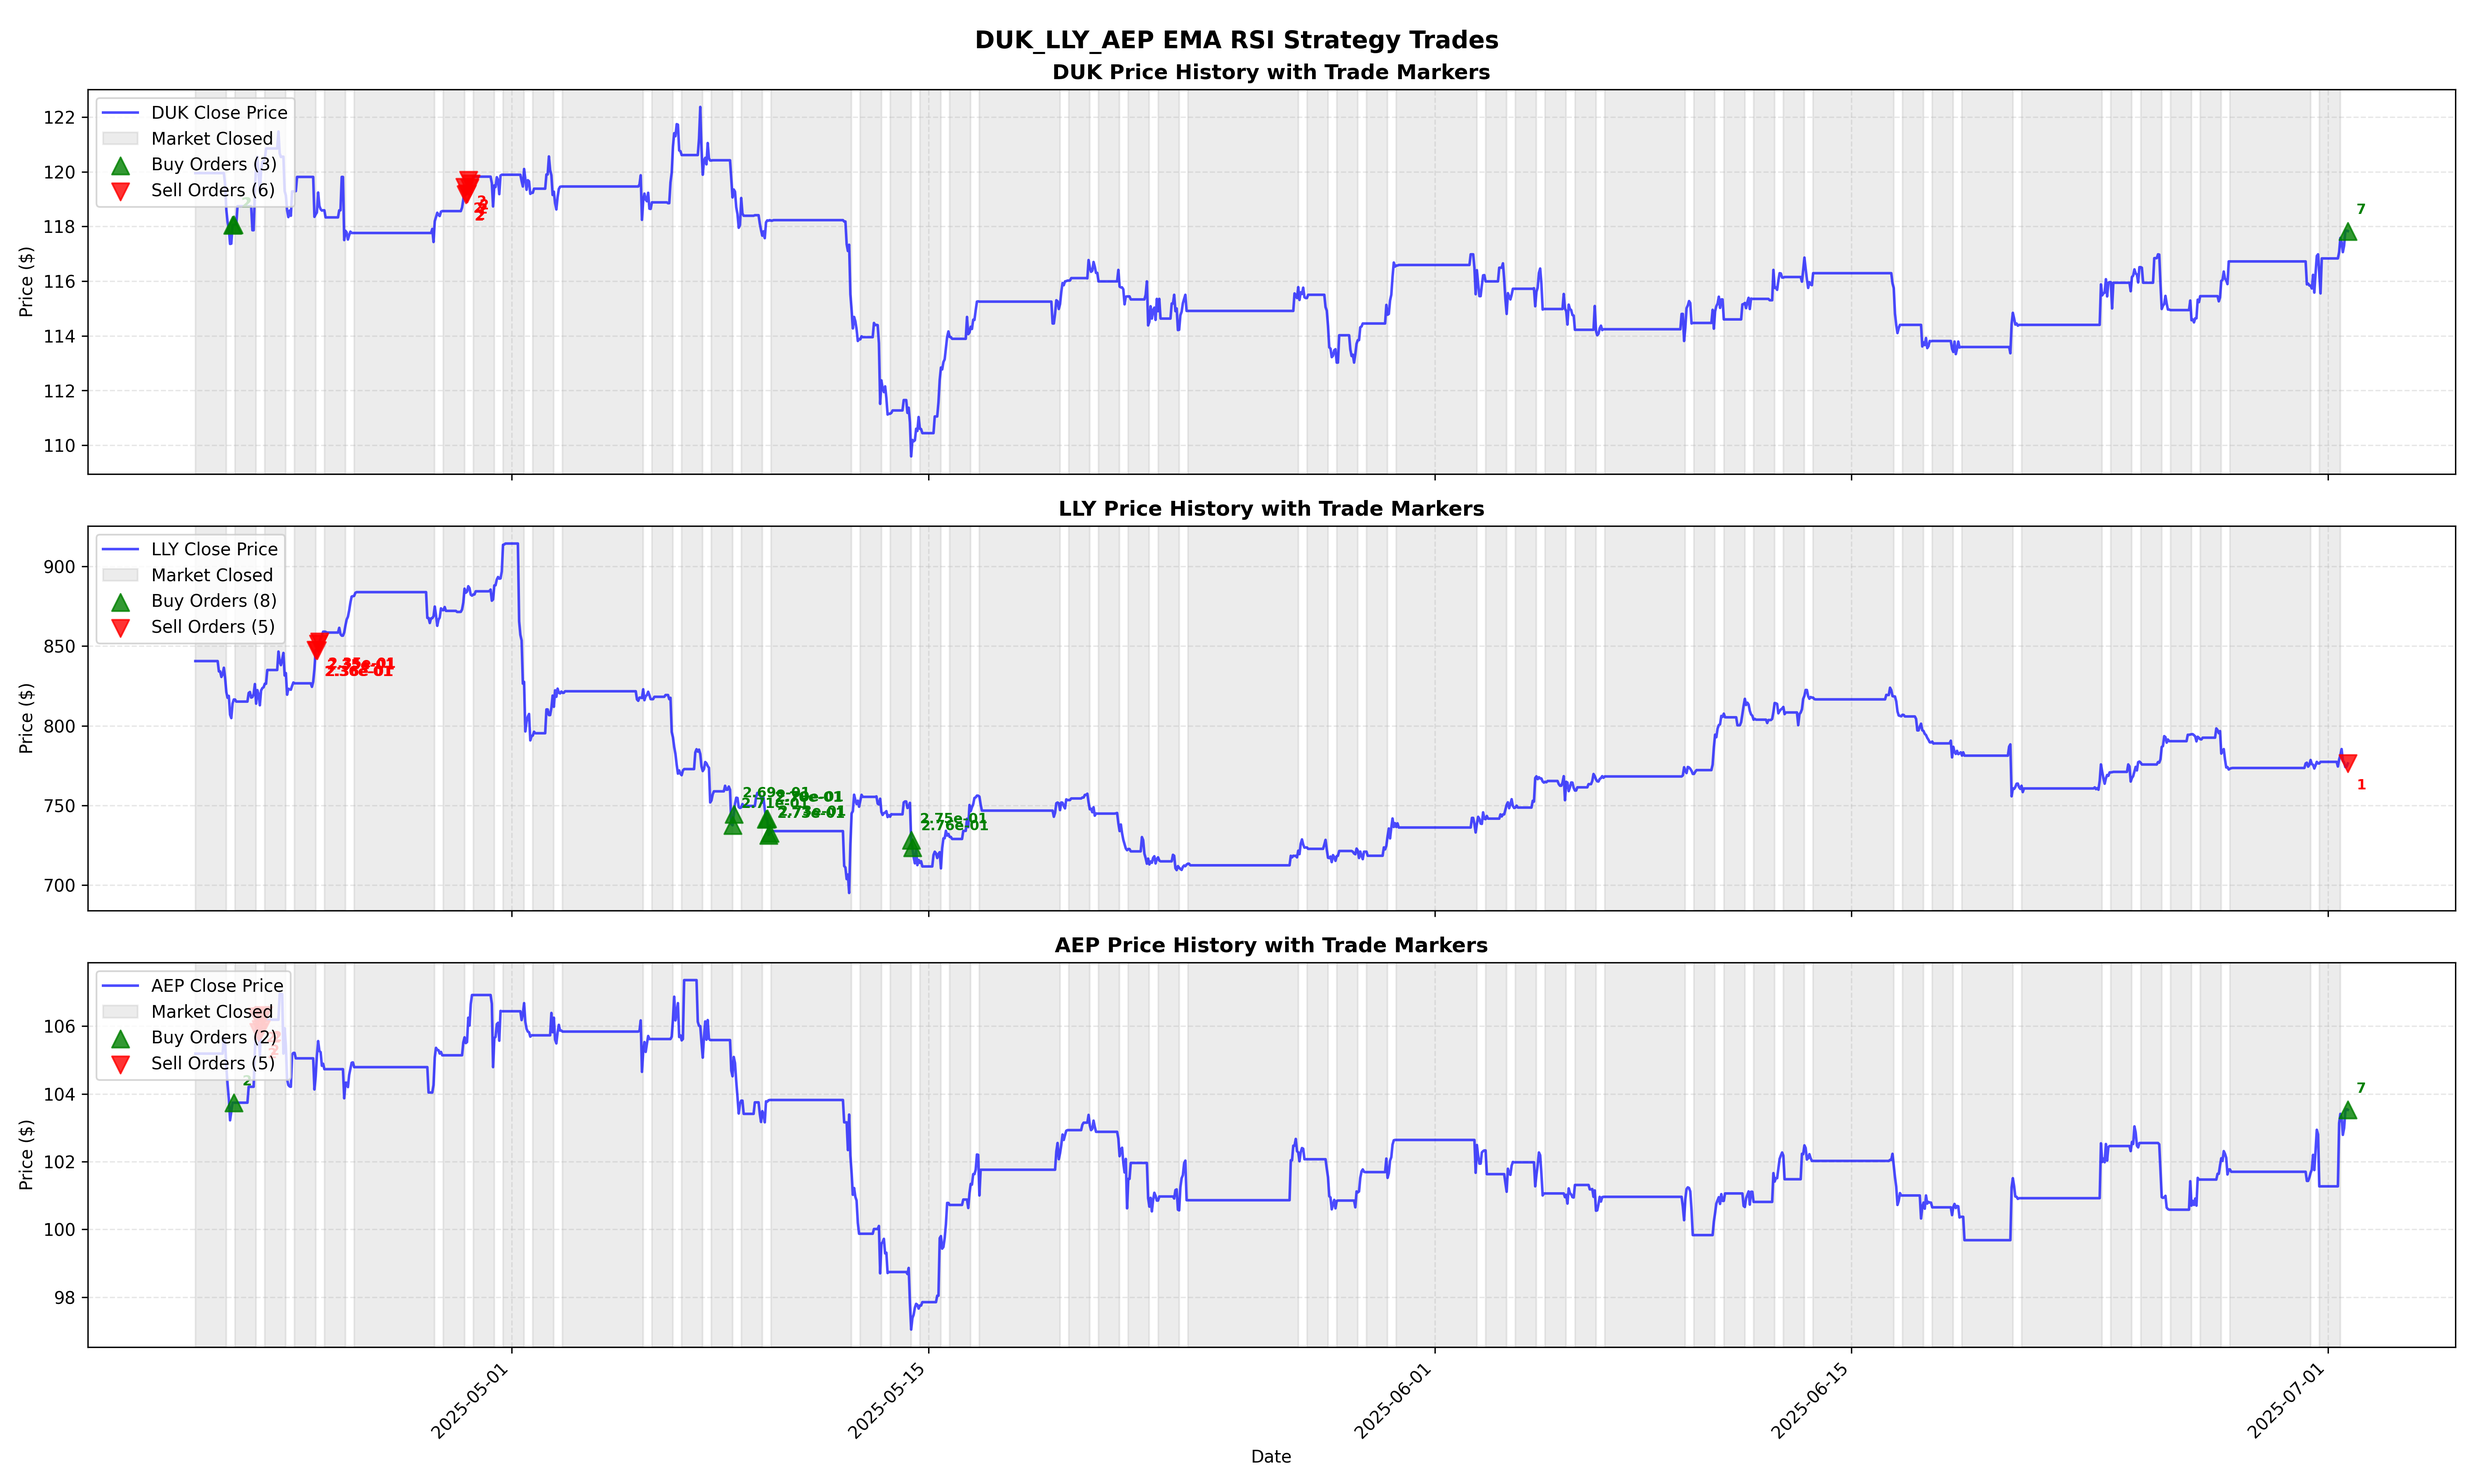
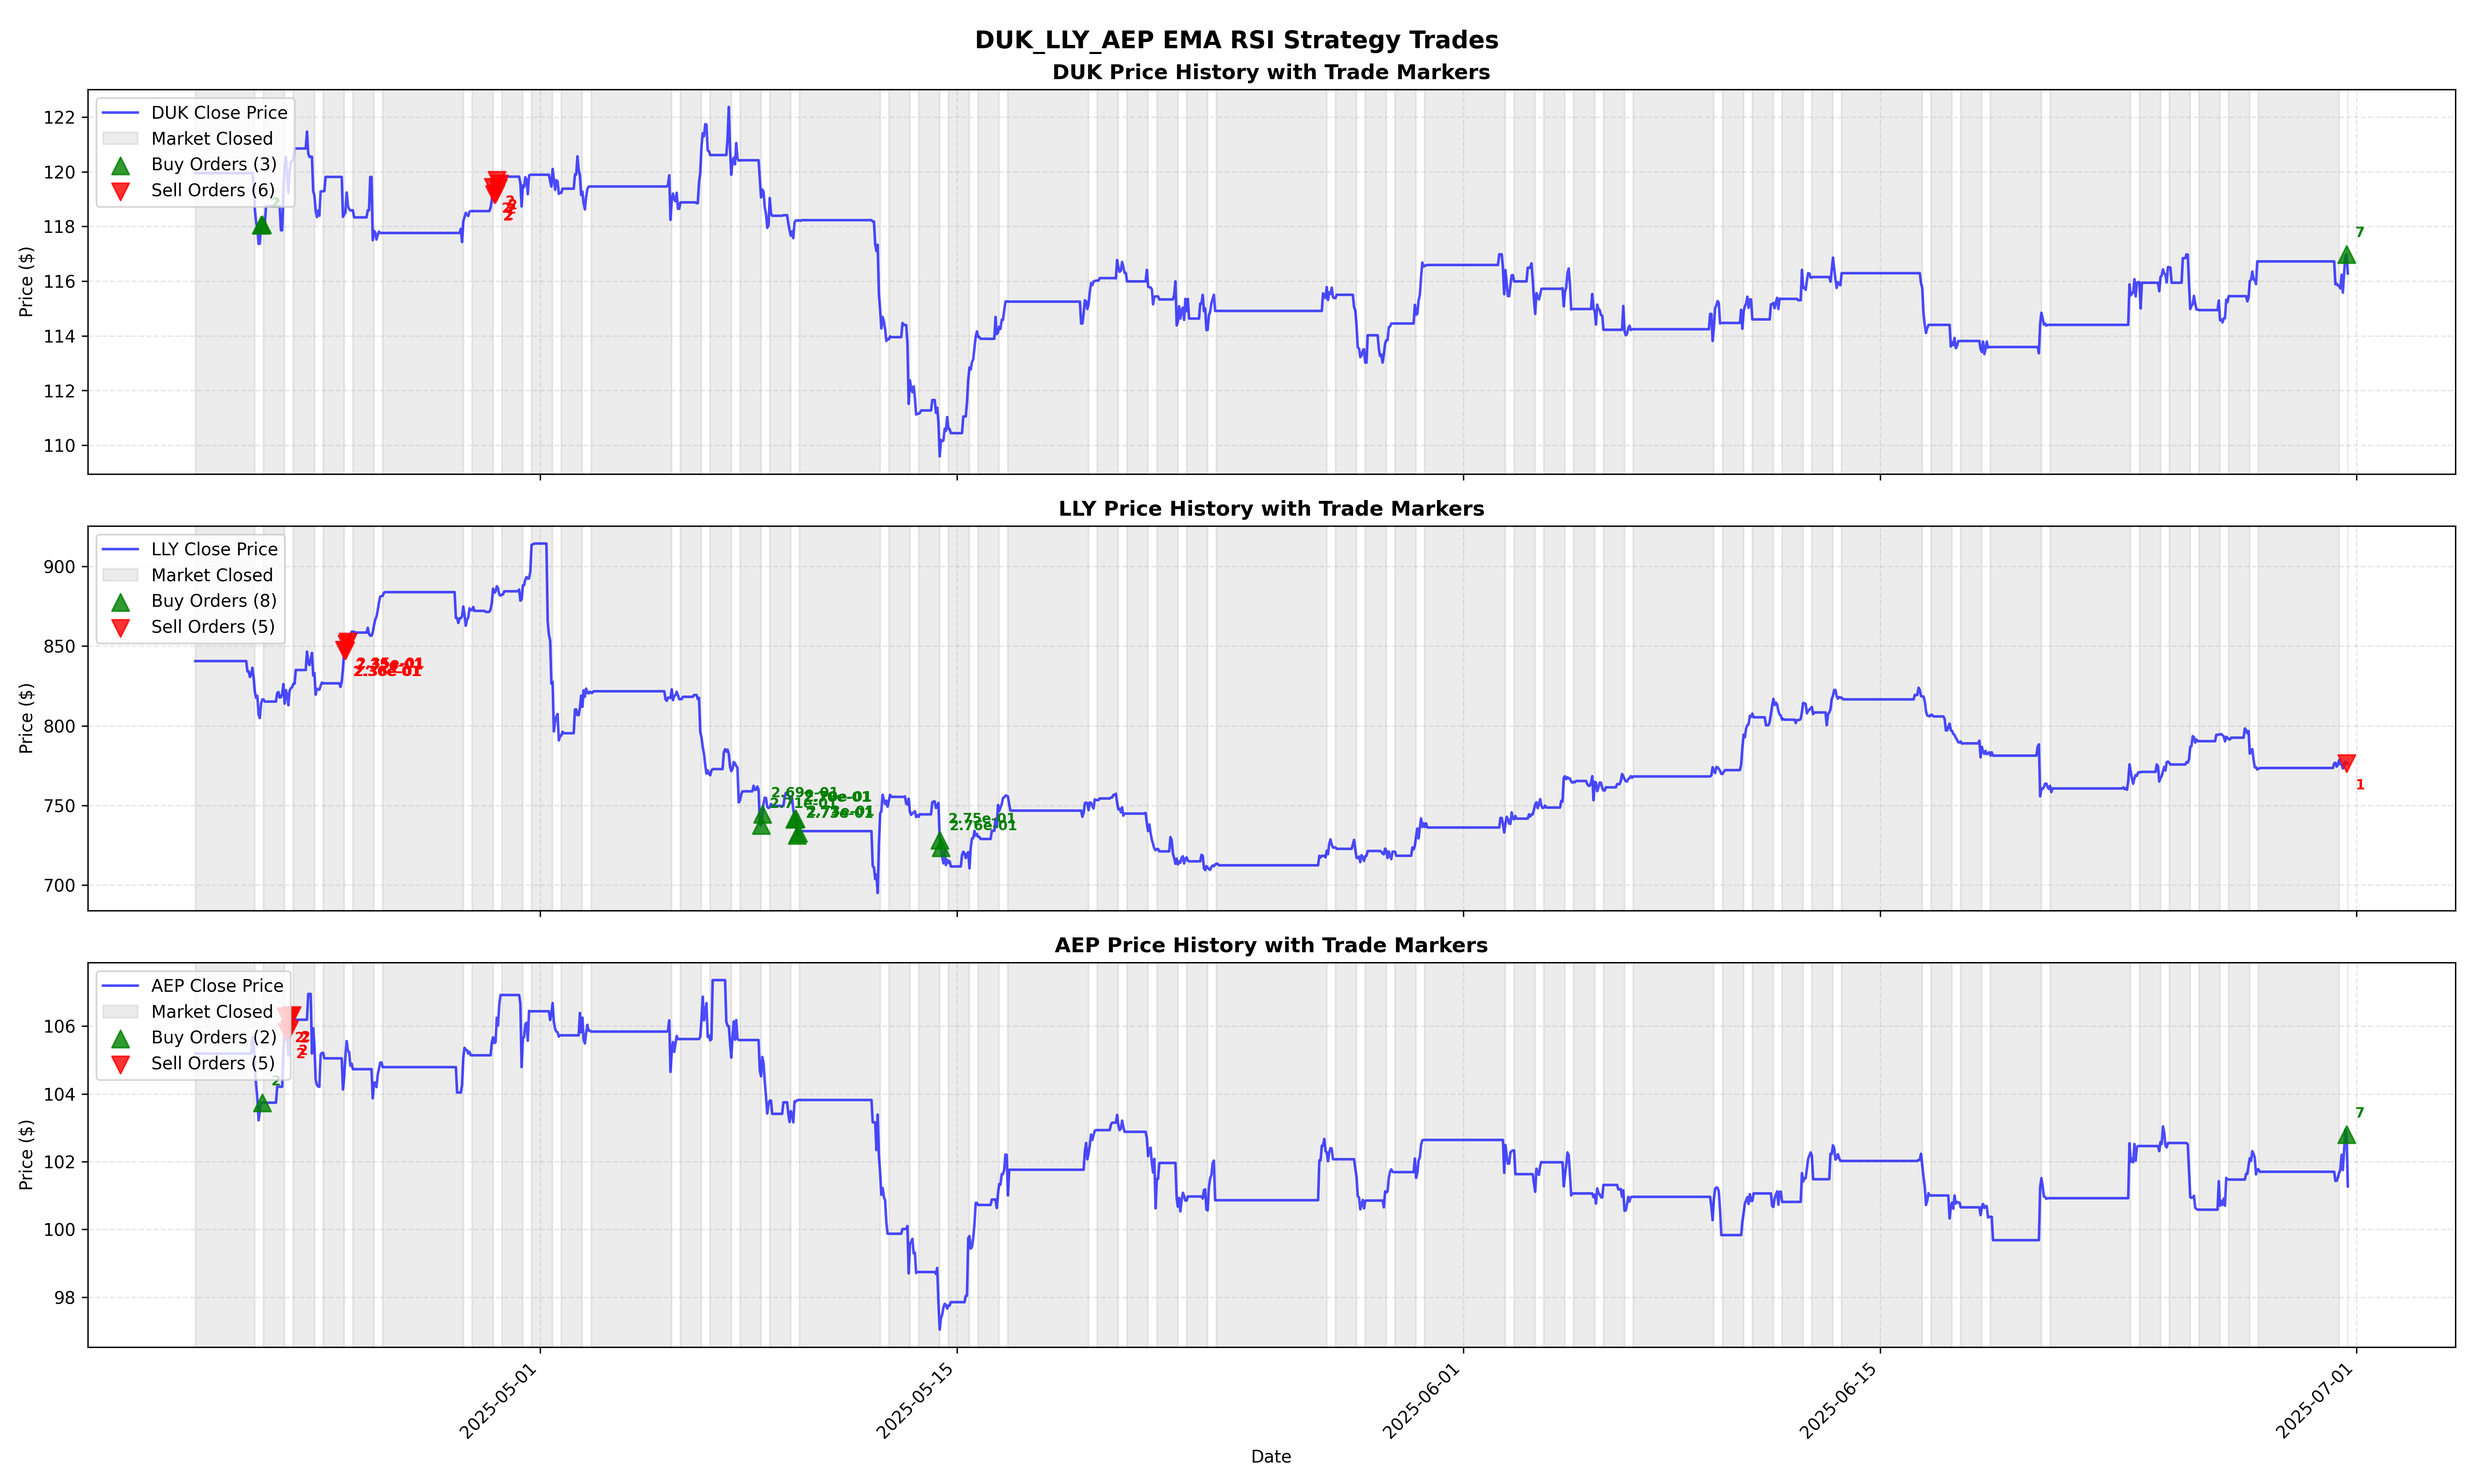
some minor stuff on readme

diff --git a/examples/ema_rsi.py b/examples/ema_rsi.py
@@ -137,7 +137,7 @@ class EmaStrategy(EventBacktester):
 # %%
 symbols = ["DUK", "LLY", "AEP"]
 
-shift = - timedelta(days=1)
+shift = timedelta(days=0)
 bars = download_bars(
     symbols,
     start_date=datetime(2025, 4, 1) - shift,

diff --git a/README.md b/README.md
@@ -249,6 +249,14 @@ The framework includes a number of plotting methods for visualizing the performa
 ![Performance Analysis](img/DUK_LLY_AEP_EMA_RSI_Strategy_Performance.png)
 ![Trade History](img/DUK_LLY_AEP_EMA_RSI_Strategy_Trades.png)
 
+## Installation
+
+Install the package with:
+
+```bash
+pip install git+https://github.com/ckinateder/bacta.git
+```
+
 ## Examples
 
 See the [examples](examples) directory for usage examples.
